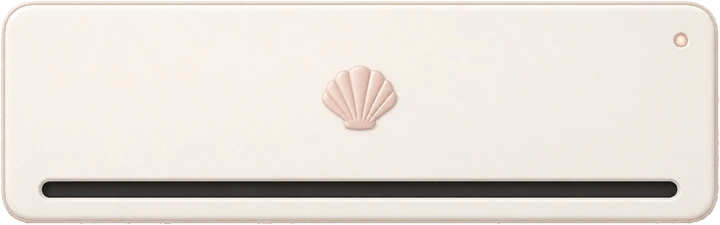
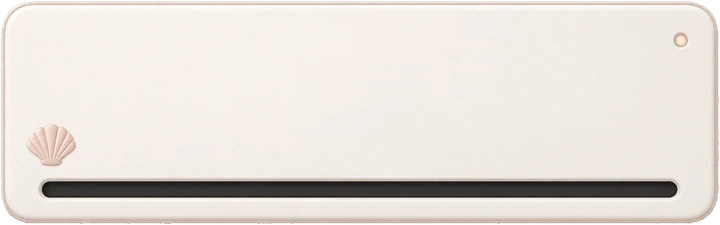
拾贝打印机：贝壳从正中挪到左下角（缩小、原位补平），出纸口和小灯不动 (#270)
Claude-Session: https://claude.ai/code/session_012FdsuvfVBPEJeWGGTMGW6t

Changed region(s): [[0.4278, 0.28, 0.55, 0.5911], [0.0306, 0.56, 0.1222, 0.7467]]

diff --git a/docs/worklog.md b/docs/worklog.md
@@ -14,6 +14,12 @@
 
 ## 日志
 
+### 2026-10-20 cc（云端）：拾贝打印机的贝壳挪到左下角（#269 的后续）
+- 只换了图 `src/assets/meanwhile/printer.webp`（尺寸还是 720×225，出纸口、小粉灯位置一点没动，代码没改）：把正中的粉色扇贝抠下来，原位置用四周机身的奶油色和光影插值补平（放大看不出痕迹）；扇贝缩到原来约 0.7，贴在左下角、出纸口上方，保留浮雕的光影，抠边做了羽化
+- 浅色深色都截图看过：没打印、打印到一半、印完整张都正常，深色不露白块
+- 不用重跑服务器安装，中转不用更新；合并后网页自动更新，手机上刷新一下（PWA 可能要关掉再开）
+- 脚本是一次性的没留；要再调位置/大小，直接在原图上改或让小续重新生成一张
+
 ### 2026-10-20 cc（云端）：拾贝小票改素（#268 的后续）
 - 打印机换成小续发的图（奶油白机身、中间粉色浮雕扇贝、右上小粉灯、底部深色出纸口）：图是私人仓库里 22:27 那张，四周奶油底抠成透明，存成 `src/assets/meanwhile/printer.webp`（8KB），直接躺在页面上，深色模式不露白块。原来的蓝色粗线 SVG 打印机、彩色按钮、头上的气泡都去掉；没打印时的提示是机身下面一行很小的淡字。打印时右上小灯会闪
 - 出纸方向改成从下面出：小票顶边落在出纸口中线、比机身窄一点居中，高度一点一点长出来，下面的水温、潮间带等正常往下排、被自然顶下去，不叠在别的东西上（机顶冒出、页面补滚动那套 `keepPlace` 删了）。印完挂在打印机下面；打印过的日子直接显示；「再打一张」留着，做得很小很淡。没打印时不占小票的位置
